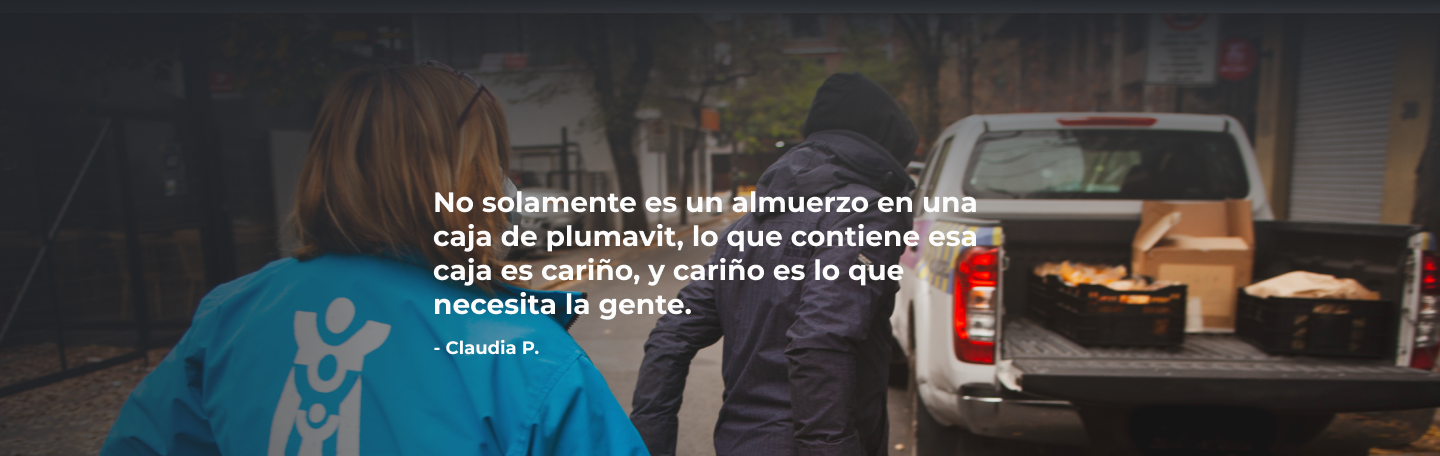
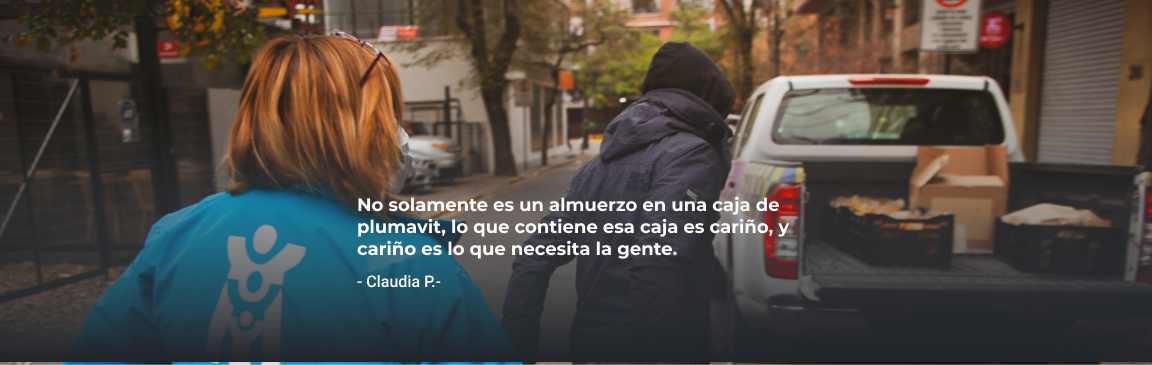
cambio de opacidad y aleniación de texto en imagen inicial de sección catálogo, sé parte y nosotros. Se añade sutítulo en pilares. Se cambia posición del precio en las tarjetas y color

diff --git a/src/components/catalogue/HowTo.js b/src/components/catalogue/HowTo.js
@@ -1,35 +1,50 @@
-import React from 'react';
-import { Icon } from '@iconify/react';
-import filterIcon from '@iconify/icons-feather/filter';
-import mapPin from '@iconify/icons-feather/map-pin';
-import phoneIcon from '@iconify/icons-feather/phone';
-import './howto.css';
+import React from "react";
+import { Icon } from "@iconify/react";
+import filterIcon from "@iconify/icons-feather/filter";
+import mapPin from "@iconify/icons-feather/map-pin";
+import phoneIcon from "@iconify/icons-feather/phone";
+import "./howto.css";
 
 const HowTo = () => {
-    return(
-        <div className="howto-container">
-            <div>
-                <h4>¿CÓMO</h4>
-                <h4>COMPRAR?</h4>
-            </div>
-            <div className="howto">
-                <div className="how">
-                    <h5><Icon icon={filterIcon} /> 1. FILTRAR</h5>
-                    <p>Puedes elegir la categoría de productos de tu preferencia, tenemos variedades de dulce, salado y vegano.</p>
-                </div>
-                <div className="how">
-                    <h5><Icon icon={mapPin} /> 2. COMUNA</h5>
-                    <p>Al seleccionar “Comuna” se 
-                    despliegará una lista para que elijas la comuna que más te convenga y así no alejarte mucho de tu pedido.</p>
-                </div>
-                <div className="how">
-                    <h5> <Icon icon={phoneIcon} /> 3.CONTACTO</h5>
-                    <p>El botón de contacto te permitirá saber los datos del emprendedor que vende el producto que deseas y así coordinar con el la transacción.</p>
-                </div>
-            </div>
-            <p>*Por el momento no contamos con un pago directo en la página, pero estamos trabajando para mejorar tu experiencia.</p>
+  return (
+    <div className="howto-container">
+      <div>
+        <h4>¿CÓMO</h4>
+        <h4>COMPRAR?</h4>
+      </div>
+      <div className="howto">
+        <div className="how">
+          <h5>
+            <Icon icon={filterIcon} /> 1. FILTRAR
+          </h5>
+          <p>
+            Puedes elegir la categoría de productos de tu preferencia, tenemos
+            variedades de dulce, salado y vegano.
+          </p>
         </div>
-    )
-}
+        <div className="how">
+          <h5>
+            <Icon icon={mapPin} /> 2. COMUNA
+          </h5>
+          <p>
+            Al seleccionar “Comuna” se despliegará una lista para que elijas la
+            comuna que más te convenga y así no alejarte mucho de tu pedido.
+          </p>
+        </div>
+        <div className="how">
+          <h5>
+            {" "}
+            <Icon icon={phoneIcon} /> 3.CONTACTO
+          </h5>
+          <p>
+            El botón de contacto te permitirá saber los datos del emprendedor
+            que vende el producto que deseas y así coordinar con el la
+            transacción.
+          </p>
+        </div>
+      </div>
+    </div>
+  );
+};
 
 export default HowTo;

diff --git a/src/components/about/pillars.js b/src/components/about/pillars.js
@@ -1,38 +1,55 @@
-import React from 'react';
-import alimento from '../../img/alimento.png';
-import empleo from '../../img/empleo.png';
-import comunidad from '../../img/comunidad.png';
-import educacion from '../../img/educacion.png';
-import './pillars.css';
+import React from "react";
+import alimento from "../../img/alimento.png";
+import empleo from "../../img/empleo.png";
+import comunidad from "../../img/comunidad.png";
+import educacion from "../../img/educacion.png";
+import "./pillars.css";
 
 const Pillars = () => {
-    return (
-        <div className="pillars-container">
-            <div>
-                <img src={alimento} alt="alimento-bueno"/>
-                <h4>Alimento Bueno</h4>
-                <p>Distribuir alimento de calidad, nutritivo y cuidado, a quienes más lo necesitan</p>
-            </div>
-            <hr></hr>
-            <div>
-                <img src={empleo} alt="empleo"/>
-                <h4>Empleo</h4>
-                <p>Fomentar el empleo, enfocado en los sectores productivos más vulnerables</p>
-            </div>
-            <hr></hr>
-            <div>
-                <img src={comunidad} alt="comunidad"/>
-                <h4>Comunidad</h4>
-                <p>Crear y trabajar junto a la comunidad, forjar redes y estando al servicio de ella</p>
-            </div>
-            <hr></hr>
-            <div>
-                <img src={educacion} alt="educación"/>
-                <h4>Educación</h4>
-                <p>Educar en materias de alimentación saludable y técnicas culinarias</p>
-            </div>
+  return (
+    <div>
+      <div className="pillars-title">
+        <h3>NUESTROS</h3>
+        <h3>PILARES</h3>
+      </div>
+      <div className="pillars-container">
+        <div>
+          <img src={alimento} alt="alimento-bueno" />
+          <h4>Alimento Bueno</h4>
+          <p>
+            Distribuir alimento de calidad, nutritivo y cuidado, a quienes más
+            lo necesitan
+          </p>
         </div>
-    )
-}
+        <hr></hr>
+        <div>
+          <img src={empleo} alt="empleo" />
+          <h4>Empleo</h4>
+          <p>
+            Fomentar el empleo, enfocado en los sectores productivos más
+            vulnerables
+          </p>
+        </div>
+        <hr></hr>
+        <div>
+          <img src={comunidad} alt="comunidad" />
+          <h4>Comunidad</h4>
+          <p>
+            Crear y trabajar junto a la comunidad, forjar redes y estando al
+            servicio de ella
+          </p>
+        </div>
+        <hr></hr>
+        <div>
+          <img src={educacion} alt="educación" />
+          <h4>Educación</h4>
+          <p>
+            Educar en materias de alimentación saludable y técnicas culinarias
+          </p>
+        </div>
+      </div>
+    </div>
+  );
+};
 
 export default Pillars;

diff --git a/src/components/about/Info.js b/src/components/about/Info.js
@@ -17,28 +17,30 @@ const Info = () => {
       <p>
         Comida para todos es una plataforma solidaria que nace de la unión de
         organizaciones sociales, instituciones públicas, restaurantes,
-        productores, que busca salvaguardar la <strong>Seguridad Alimentaria</strong>.
+        productores, que busca salvaguardar la{" "}
+        <strong>Seguridad Alimentaria</strong>.
       </p>
       <p>
         En el contexto de esta pandemia mundial hemos tenido una oportunidad
         única en su historia, el de dar un giro al destino y generar cambios
         reales al servicio de la comunidad, es por ello que nuestra misión como
-        gastronomía social es: <strong>alimentar el espíritu y cuerpo de quienes lo
-        necesiten</strong>.
+        gastronomía social es:{" "}
+        <strong>alimentar el espíritu y cuerpo de quienes lo necesiten</strong>.
       </p>
       <p>
         De esta manera fuimos capaces de unirnos treinta y cuatro organizaciones
         en Chile y España, para actuar y ponernos al servicio de quienes lo
-        necesiten, <strong>entregado decenas de miles de almuerzos solidarios</strong>,
+        necesiten,{" "}
+        <strong>entregado decenas de miles de almuerzos solidarios</strong>,
         trabajando en cinco ciudades en Chile y una en España, generado puestos
         de empleo, creando nuestra primera escuela con huerto urbano y lo más
         importante <strong>alimentando a miles de personas</strong>.{" "}
       </p>
       <p>
-        Trabajamos para a <strong>combatir el hambre en Chile</strong>, promoviendo una
-        alimentación de calidad y nutritiva; conectando, colaborando y generando
-        asociatividad entre los actores de la cadena gastronómica y la
-        ciudadanía.{" "}
+        Trabajamos para a <strong>combatir el hambre en Chile</strong>,
+        promoviendo una alimentación de calidad y nutritiva; conectando,
+        colaborando y generando asociatividad entre los actores de la cadena
+        gastronómica y la ciudadanía.{" "}
       </p>
       <p>
         Un plato bueno que genera empleo, fomenta la educación y fortalece las
@@ -46,10 +48,6 @@ const Info = () => {
         para poder seguir juntos llevando a Chile y cualquier otro país a lograr
         Seguridad Alimentaria y los objetivos de desarrollo sostenible (ODS) que
         de ésta se desprenden.{" "}
-      </p>
-      <p>
-        Es por ello que en Comida Para Todos creemos en estos <strong>4 pilares
-        fundamentales</strong>:
       </p>
     </div>
   );

diff --git a/src/components/catalogue/productList.css b/src/components/catalogue/productList.css
@@ -17,9 +17,9 @@
     font-family: 'Montserrat', sans-serif;
     font-style: normal;
     font-weight: bold;
-    font-size: 1.125rem;
+    font-size: 1rem;
     line-height: 22px;
-    color: #343434;
+    color: #495057;
     margin: 4%;
 }
 
@@ -27,7 +27,7 @@
     font-family: 'Roboto', sans-serif;
     font-style: normal;
     font-weight: 500;
-    font-size: 1rem;
+    font-size: 0.875rem;
     line-height: 19px;
     color: #747474;
     margin: 3%;
@@ -35,31 +35,41 @@
 
 .item>div {
     display: flex;
-    justify-content: space-between;
     align-items: center;
-    padding: 5% 10%;
+    padding: 5% 5%;
     box-sizing: border-box;
 }
 
 .item>div>button {
     background-color: #C05111;
-    padding: 6% 6% 4%;
+    margin-right: 4%;
     border-radius: 8px;
     border: none;
     cursor: pointer;
+    height: 2.25rem;
+    width: 2.25rem;
 }
 
-.item>div>h6 {
+.item>h6 {
     font-family: 'Montserrat', sans-serif;
     font-weight: bold;
     font-size: 1.5rem;
     line-height: 1.81rem;
     color: #343434;
-    margin: 0;
+    margin: 4%;
 }
 
 .item>div>button>svg {
     color: white;
     margin: 0;
     font-size: 1.5rem;
+}
+
+.item>div>p{
+    font-family: 'Roboto', sans-serif;
+    font-style: normal;
+    font-weight: 500;
+    font-size: 14px;
+    line-height: 16px;
+    color: #C05111;
 }

diff --git a/src/components/catalogue/ProductCard.js b/src/components/catalogue/ProductCard.js
@@ -1,21 +1,24 @@
-import React from 'react';
-import { Icon } from '@iconify/react';
-import plusIcon from '@iconify/icons-feather/plus';
+import React from "react";
+import { Icon } from "@iconify/react";
+import plusIcon from "@iconify/icons-feather/plus";
 
-import './productList.css';
+import "./productList.css";
 
 const ProductCard = (props) => {
-    return (
-        <div className="item" >
-            <img src={props.img} alt={props.name} />
-            <h5>{props.name}</h5>
-            <p>{props.producer}</p>
-            <div>
-                <h6>{props.price}</h6>
-                <button type="button" onClick={props.open}><Icon icon={plusIcon} /></button>
-            </div>
-        </div>
-    )
-}
+  return (
+    <div className="item">
+      <img src={props.img} alt={props.name} />
+      <h6>{props.price}</h6>
+      <h5>{props.name}</h5>
+      <p>{props.producer}</p>
+      <div>
+        <button type="button" onClick={props.open}>
+          <Icon icon={plusIcon} />
+        </button>
+        <p>Ver datos</p>
+      </div>
+    </div>
+  );
+};
 
 export default ProductCard;

diff --git a/src/components/about/pillars.css b/src/components/about/pillars.css
@@ -1,9 +1,27 @@
+.pillars-title{
+    display: flex;
+    justify-content: center;
+    margin: 2% 0 0 0;
+}
+
+.pillars-title>h3{
+    font-family: 'Montserrat', sans-serif;
+    font-style: normal;
+    font-weight: bold;
+    font-size: 1.75rem;
+    color: #495057;
+}
+
+.pillars-title> h3:nth-child(2) {
+    color: #C05111;
+    margin-left: 1%;
+}
 .pillars-container{
-    display:flex;
-    margin:5%;
+    display: flex;
+    margin: 0 5% 5% 5%;
     justify-content: space-between;
     box-shadow: 0px 36px 28px -12px rgba(73, 80, 87, 0.18);
-    padding: 2%;
+    padding: 0 2% 2% 2%;
 }
 
 .pillars-container>div{
@@ -44,6 +62,9 @@
 }
 
 @media (max-width:376px){
+    .pillars-title>h3{
+        font-size: 1.5rem;
+    }
     .pillars-container{
         display: block;
         width: 70%;
